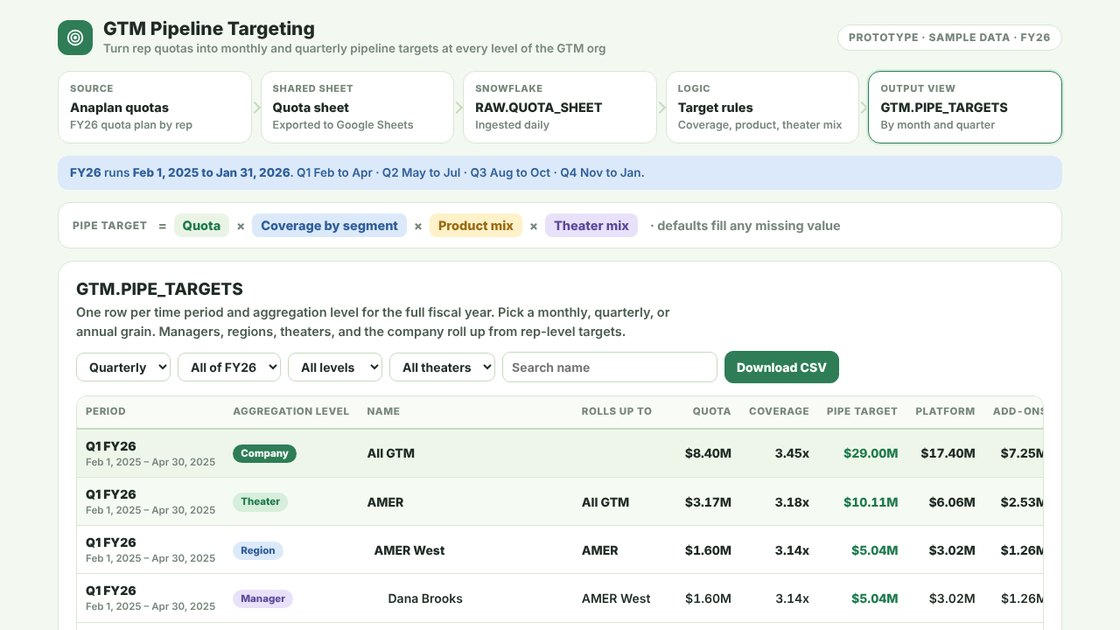
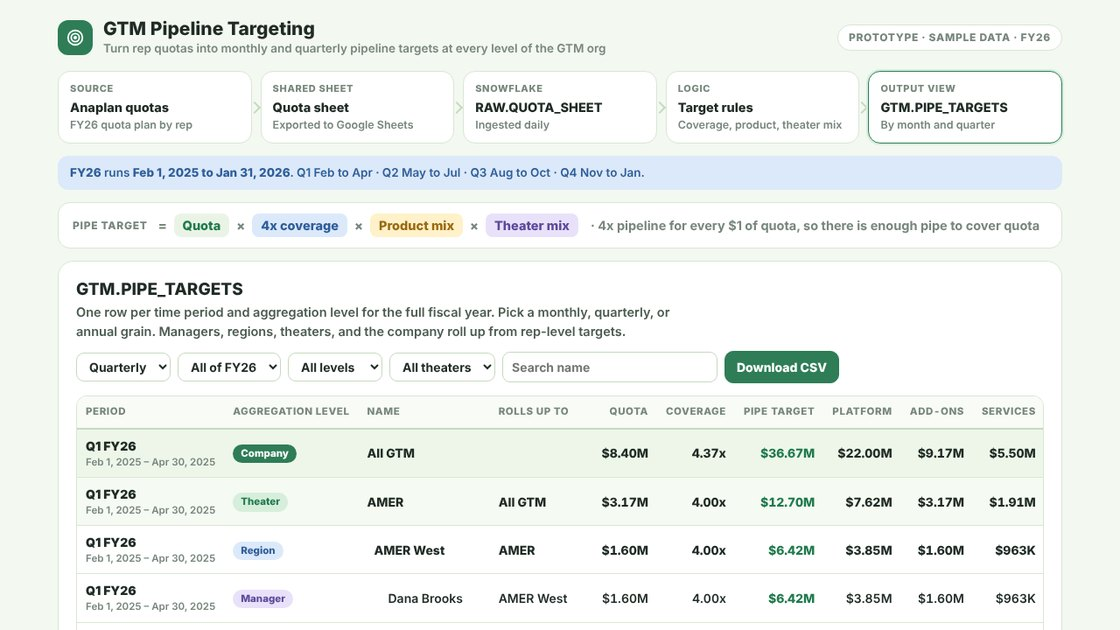
GTM Pipeline Targeting: use a single 4x coverage multiple
Replaces coverage by segment with one coverage multiple (default 4x) so
there is enough pipeline to cover quota. Updates the formula, rules, SQL,
quota sheet, and tile description.

Claude-Session: https://claude.ai/code/session_012KZoca3tAZxyi3oCaJbwMw

diff --git a/pipeline-targets.html b/pipeline-targets.html
@@ -131,10 +131,10 @@ table.ph{font-size:13px;width:100%} table.ph th,table.ph td{padding:5px 6px} tab
   <div class="formula" aria-label="Formula">
     <span class="lbl">Pipe target</span><span class="op">=</span>
     <span class="term t1">Quota</span><span class="op">×</span>
-    <span class="term t2">Coverage by segment</span><span class="op">×</span>
+    <span class="term t2">4x coverage</span><span class="op">×</span>
     <span class="term t3">Product mix</span><span class="op">×</span>
     <span class="term t4">Theater mix</span>
-    <span class="op" style="margin-left:6px;font-weight:700">· defaults fill any missing value</span>
+    <span class="op" style="margin-left:6px;font-weight:700">· 4x pipeline for every $1 of quota, so there is enough pipe to cover quota</span>
   </div>
 
   <!-- OUTPUT -->
@@ -156,8 +156,8 @@ table.ph{font-size:13px;width:100%} table.ph th,table.ph td{padding:5px 6px} tab
 
   <!-- INPUT -->
   <section class="panel" id="v-input" hidden>
-    <div class="ph"><div><h2>RAW.QUOTA_SHEET</h2><p>FY26 quarterly quotas exported from Anaplan to a shared Google Sheet and ingested into Snowflake. Rows missing a segment use the default coverage.</p></div></div>
-    <div class="tw"><table><thead><tr><th>rep_name</th><th>manager</th><th>region</th><th>theater</th><th>segment</th><th class="num">q1_quota</th><th class="num">q2_quota</th><th class="num">q3_quota</th><th class="num">q4_quota</th><th class="num">fy26_total</th></tr></thead><tbody id="inBody"></tbody></table></div>
+    <div class="ph"><div><h2>RAW.QUOTA_SHEET</h2><p>FY26 quarterly quotas exported from Anaplan to a shared Google Sheet and ingested into Snowflake.</p></div></div>
+    <div class="tw"><table><thead><tr><th>rep_name</th><th>manager</th><th>region</th><th>theater</th><th class="num">q1_quota</th><th class="num">q2_quota</th><th class="num">q3_quota</th><th class="num">q4_quota</th><th class="num">fy26_total</th></tr></thead><tbody id="inBody"></tbody></table></div>
     <div class="meta"><span>Source: <code>Anaplan › FY26 Quota Plan</code></span><span>Sheet: <code>FY26 Quotas (export)</code></span><span>Loaded: <code>RAW.QUOTA_SHEET</code>, 18 rows</span></div>
   </section>
 
@@ -165,7 +165,7 @@ table.ph{font-size:13px;width:100%} table.ph th,table.ph td{padding:5px 6px} tab
   <section class="panel" id="v-assume" hidden>
     <div class="ph"><div><h2>Target rules</h2><p>Change any input and the output view recalculates. In Snowflake these live in a small config table so RevOps can update them without editing SQL.</p></div><button class="btn" id="reset">Reset defaults</button></div>
     <div class="agrid">
-      <div class="box"><h3>Coverage by segment</h3><p>Pipeline needed per $1 of quota.</p><div id="covIn"></div></div>
+      <div class="box"><h3>Coverage</h3><p>Pipeline needed per $1 of quota. Default is 4x, so there is enough pipeline to cover quota.</p><div id="covIn"></div></div>
       <div class="box"><h3>Product mix</h3><p>Share of pipeline by product. Must total 100%.</p><div id="mixIn"></div><div class="sum" id="mixSum"></div></div>
       <div class="box"><h3>Theater mix</h3><p>Adjusts for conversion differences by theater.</p><div id="thIn"></div></div>
       <div class="box"><h3>Monthly phasing</h3><p>Each month gets its share of the quarter by number of days.</p><div id="phIn"></div></div>
@@ -210,7 +210,7 @@ const MONTHS = [
   ['Nov 2025','2025-11-01','2025-11-30',30],['Dec 2025','2025-12-01','2025-12-31',31],['Jan 2026','2026-01-01','2026-01-31',31]
 ].map(m => ({label:m[0], start:m[1], end:m[2], days:m[3]}));
 const QDAYS = [0,1,2,3].map(q => MONTHS.slice(q*3, q*3+3).reduce((a,m)=>a+m.days,0));
-const DEFAULTS = {cov:{Enterprise:3.5,'Mid-Market':3.0,SMB:2.5,Default:3.0}, mix:{Platform:60,'Add-ons':25,Services:15}, th:{AMER:1.00,EMEA:1.10,APAC:1.20}};
+const DEFAULTS = {cov:{Coverage:4.0}, mix:{Platform:60,'Add-ons':25,Services:15}, th:{AMER:1.00,EMEA:1.10,APAC:1.20}};
 let A = JSON.parse(JSON.stringify(DEFAULTS));
 
 /* periods: each has a label and a function returning a rep's quota for it */
@@ -229,7 +229,7 @@ let toastT; function toast(m){ const t=$('#toast'); t.textContent=m; t.classList
 
 /* ------------ target logic ------------ */
 function repTargets(r, quota){
-  const cov = r.segment && A.cov[r.segment] != null ? A.cov[r.segment] : A.cov.Default;
+  const cov = A.cov.Coverage;
   const th = A.th[r.theater] != null ? A.th[r.theater] : 1;
   const by = {}; let total = 0;
   PRODUCTS.forEach(p => { by[p] = quota * cov * (A.mix[p]/100) * th; total += by[p]; });
@@ -253,7 +253,7 @@ function buildRows(grain){
       ORG.filter(g=>g.theater===th).forEach(g => {
         add('region', th+' '+g.region, th, th, REPS.filter(r=>r.region===g.region));
         add('manager', g.manager, th+' '+g.region, th, REPS.filter(r=>r.manager===g.manager));
-        REPS.filter(r=>r.manager===g.manager).forEach(r => add('rep', r.name, g.manager, th, [r], {usedDefault: !r.segment}));
+        REPS.filter(r=>r.manager===g.manager).forEach(r => add('rep', r.name, g.manager, th, [r]));
       });
     });
   });
@@ -281,17 +281,17 @@ function renderOutput(){
     return `<tr class="l-${r.level}${first?' pstart':''}">
     <td><b>${esc(r.period)}</b><span class="dt">${fmtDate(r.start)} – ${fmtDate(r.end)}</span></td>
     <td><span class="lv lv-${r.level}">${LVL[r.level]}</span></td>
-    <td class="${flat?'':IND[r.level]}">${esc(r.name)}${r.usedDefault?'<span class="flag" title="Segment missing in quota sheet">default coverage</span>':''}</td>
+    <td class="${flat?'':IND[r.level]}">${esc(r.name)}</td>
     <td>${esc(r.parent)}</td>
     <td class="num">${money(r.quota)}</td><td class="num">${r.cov.toFixed(2)}x</td><td class="num tgt">${money(r.total)}</td>
     ${PRODUCTS.map(p=>`<td class="num">${money(r.by[p])}</td>`).join('')}</tr>`;
   }).join('') || '<tr><td colspan="10" style="color:var(--ink-3)">No rows match these filters.</td></tr>';
   const fy = buildRows('year')[0], np = periods(g).length;
-  $('#outMeta').innerHTML = `<span>${g==='all'?'All grains (annual, quarterly, monthly)':GRAIN_LBL[g]+' grain'}: ${np} period${np>1?'s':''} × 34 rows = ${all.length} rows (showing ${rows.length})</span><span>FY26 company pipe target <b style="color:var(--ink)">${money(fy.total)}</b> on ${money(fy.quota)} quota</span><span>${REPS.filter(r=>!r.segment).length} reps used default coverage</span>`;
+  $('#outMeta').innerHTML = `<span>${g==='all'?'All grains (annual, quarterly, monthly)':GRAIN_LBL[g]+' grain'}: ${np} period${np>1?'s':''} × 34 rows = ${all.length} rows (showing ${rows.length})</span><span>FY26 company pipe target <b style="color:var(--ink)">${money(fy.total)}</b> on ${money(fy.quota)} quota</span><span>Coverage ${A.cov.Coverage.toFixed(1)}x × theater mix</span>`;
   window._rows = rows;
 }
 function renderInput(){
-  $('#inBody').innerHTML = REPS.map(r => `<tr><td>${esc(r.name)}</td><td>${esc(r.manager)}</td><td>${esc(r.region)}</td><td>${r.theater}</td><td>${r.segment ? r.segment : '<span class="flag" style="margin:0">missing</span>'}</td>${r.q.map(v=>`<td class="num">${money(v)}</td>`).join('')}<td class="num" style="font-weight:800">${money(r.fy)}</td></tr>`).join('');
+  $('#inBody').innerHTML = REPS.map(r => `<tr><td>${esc(r.name)}</td><td>${esc(r.manager)}</td><td>${esc(r.region)}</td><td>${r.theater}</td>${r.q.map(v=>`<td class="num">${money(v)}</td>`).join('')}<td class="num" style="font-weight:800">${money(r.fy)}</td></tr>`).join('');
 }
 function inputRow(group, key, val, step, suffix){
   return `<div class="inrow"><label for="in-${group}-${key}">${key==='Default'?'Default':key}</label><span><input id="in-${group}-${key.replace(/\s/g,'')}" data-g="${group}" data-k="${key}" type="number" step="${step}" min="0" value="${val}"> <span style="color:var(--ink-3);font-weight:800">${suffix}</span></span></div>`;
@@ -318,12 +318,12 @@ function renderSql(){
 <span class="cm">-- FY26 runs Feb 1, 2025 to Jan 31, 2026 (Q1 Feb-Apr, Q2 May-Jul, Q3 Aug-Oct, Q4 Nov-Jan)</span>
 <span class="kw">create or replace view</span> GTM.PIPE_TARGETS <span class="kw">as</span>
 <span class="kw">with</span> quarterly_quota <span class="kw">as</span> (           <span class="cm">-- Anaplan export via Google Sheets, one column per quarter</span>
-  <span class="kw">select</span> rep_name, manager, region, theater, segment, fiscal_quarter, quota
+  <span class="kw">select</span> rep_name, manager, region, theater, fiscal_quarter, quota
   <span class="kw">from</span> RAW.QUOTA_SHEET
   <span class="kw">unpivot</span> (quota <span class="kw">for</span> fiscal_quarter <span class="kw">in</span> (q1_quota <span class="kw">as</span> <span class="st">'Q1'</span>, q2_quota <span class="kw">as</span> <span class="st">'Q2'</span>, q3_quota <span class="kw">as</span> <span class="st">'Q3'</span>, q4_quota <span class="kw">as</span> <span class="st">'Q4'</span>))
 ),
 monthly_quota <span class="kw">as</span> (             <span class="cm">-- phase each quarter by days in month ÷ days in quarter</span>
-  <span class="kw">select</span> q.rep_name, q.manager, q.region, q.theater, q.segment, q.fiscal_quarter,
+  <span class="kw">select</span> q.rep_name, q.manager, q.region, q.theater, q.fiscal_quarter,
          c.fiscal_month, c.month_start, c.month_end,
          q.quota * c.days_in_month / c.days_in_quarter <span class="kw">as</span> quota
   <span class="kw">from</span> quarterly_quota q
@@ -332,12 +332,11 @@ monthly_quota <span class="kw">as</span> (             <span class="cm">-- phase
 rep_targets <span class="kw">as</span> (
   <span class="kw">select</span> mq.*, pm.product,
     mq.quota
-    * <span class="fn">coalesce</span>(cov.multiple, ${c.Default.toFixed(1)})    <span class="cm">-- Ent ${c.Enterprise}x, MM ${c['Mid-Market']}x, SMB ${c.SMB}x; default when segment is missing</span>
+    * ${c.Coverage.toFixed(1)}                            <span class="cm">-- coverage: 4x pipeline per $1 of quota by default</span>
     * pm.mix_pct                      <span class="cm">-- Platform ${m.Platform}%, Add-ons ${m['Add-ons']}%, Services ${m.Services}%</span>
     * <span class="fn">coalesce</span>(th.factor, 1.00)      <span class="cm">-- AMER ${t.AMER.toFixed(2)}, EMEA ${t.EMEA.toFixed(2)}, APAC ${t.APAC.toFixed(2)}</span>
     <span class="kw">as</span> pipe_target
   <span class="kw">from</span> monthly_quota mq
-  <span class="kw">left join</span> CONFIG.COVERAGE_BY_SEGMENT cov <span class="kw">on</span> cov.segment = mq.segment
   <span class="kw">left join</span> CONFIG.THEATER_MIX th          <span class="kw">on</span> th.theater = mq.theater
   <span class="kw">cross join</span> CONFIG.PRODUCT_MIX pm
 ),

diff --git a/index.html b/index.html
@@ -254,7 +254,7 @@ footer p{color:var(--ink-2);max-width:46ch}
         <div class="body">
           <span class="eyebrow">Sales planning</span>
           <h3>GTM Pipeline Targeting</h3>
-          <p class="what">Turns each rep's Anaplan quota into pipeline targets: quota × coverage by segment × product mix × theater mix. The output is a Snowflake view with FY26 monthly and quarterly targets at rep, manager, region, and theater levels.</p>
+          <p class="what">Turns each rep's Anaplan quota into pipeline targets: quota × 4x coverage × product mix × theater mix. The output is a Snowflake view with FY26 monthly and quarterly targets at rep, manager, region, and theater levels.</p>
           <p class="win">Automated pipeline targeting across every level of the GTM org.</p>
           <div class="foot">
             <a class="open" href="https://d8chang.github.io/ai-prototypes/pipeline-targets.html" target="_blank" rel="noopener">Open prototype ↗</a>
